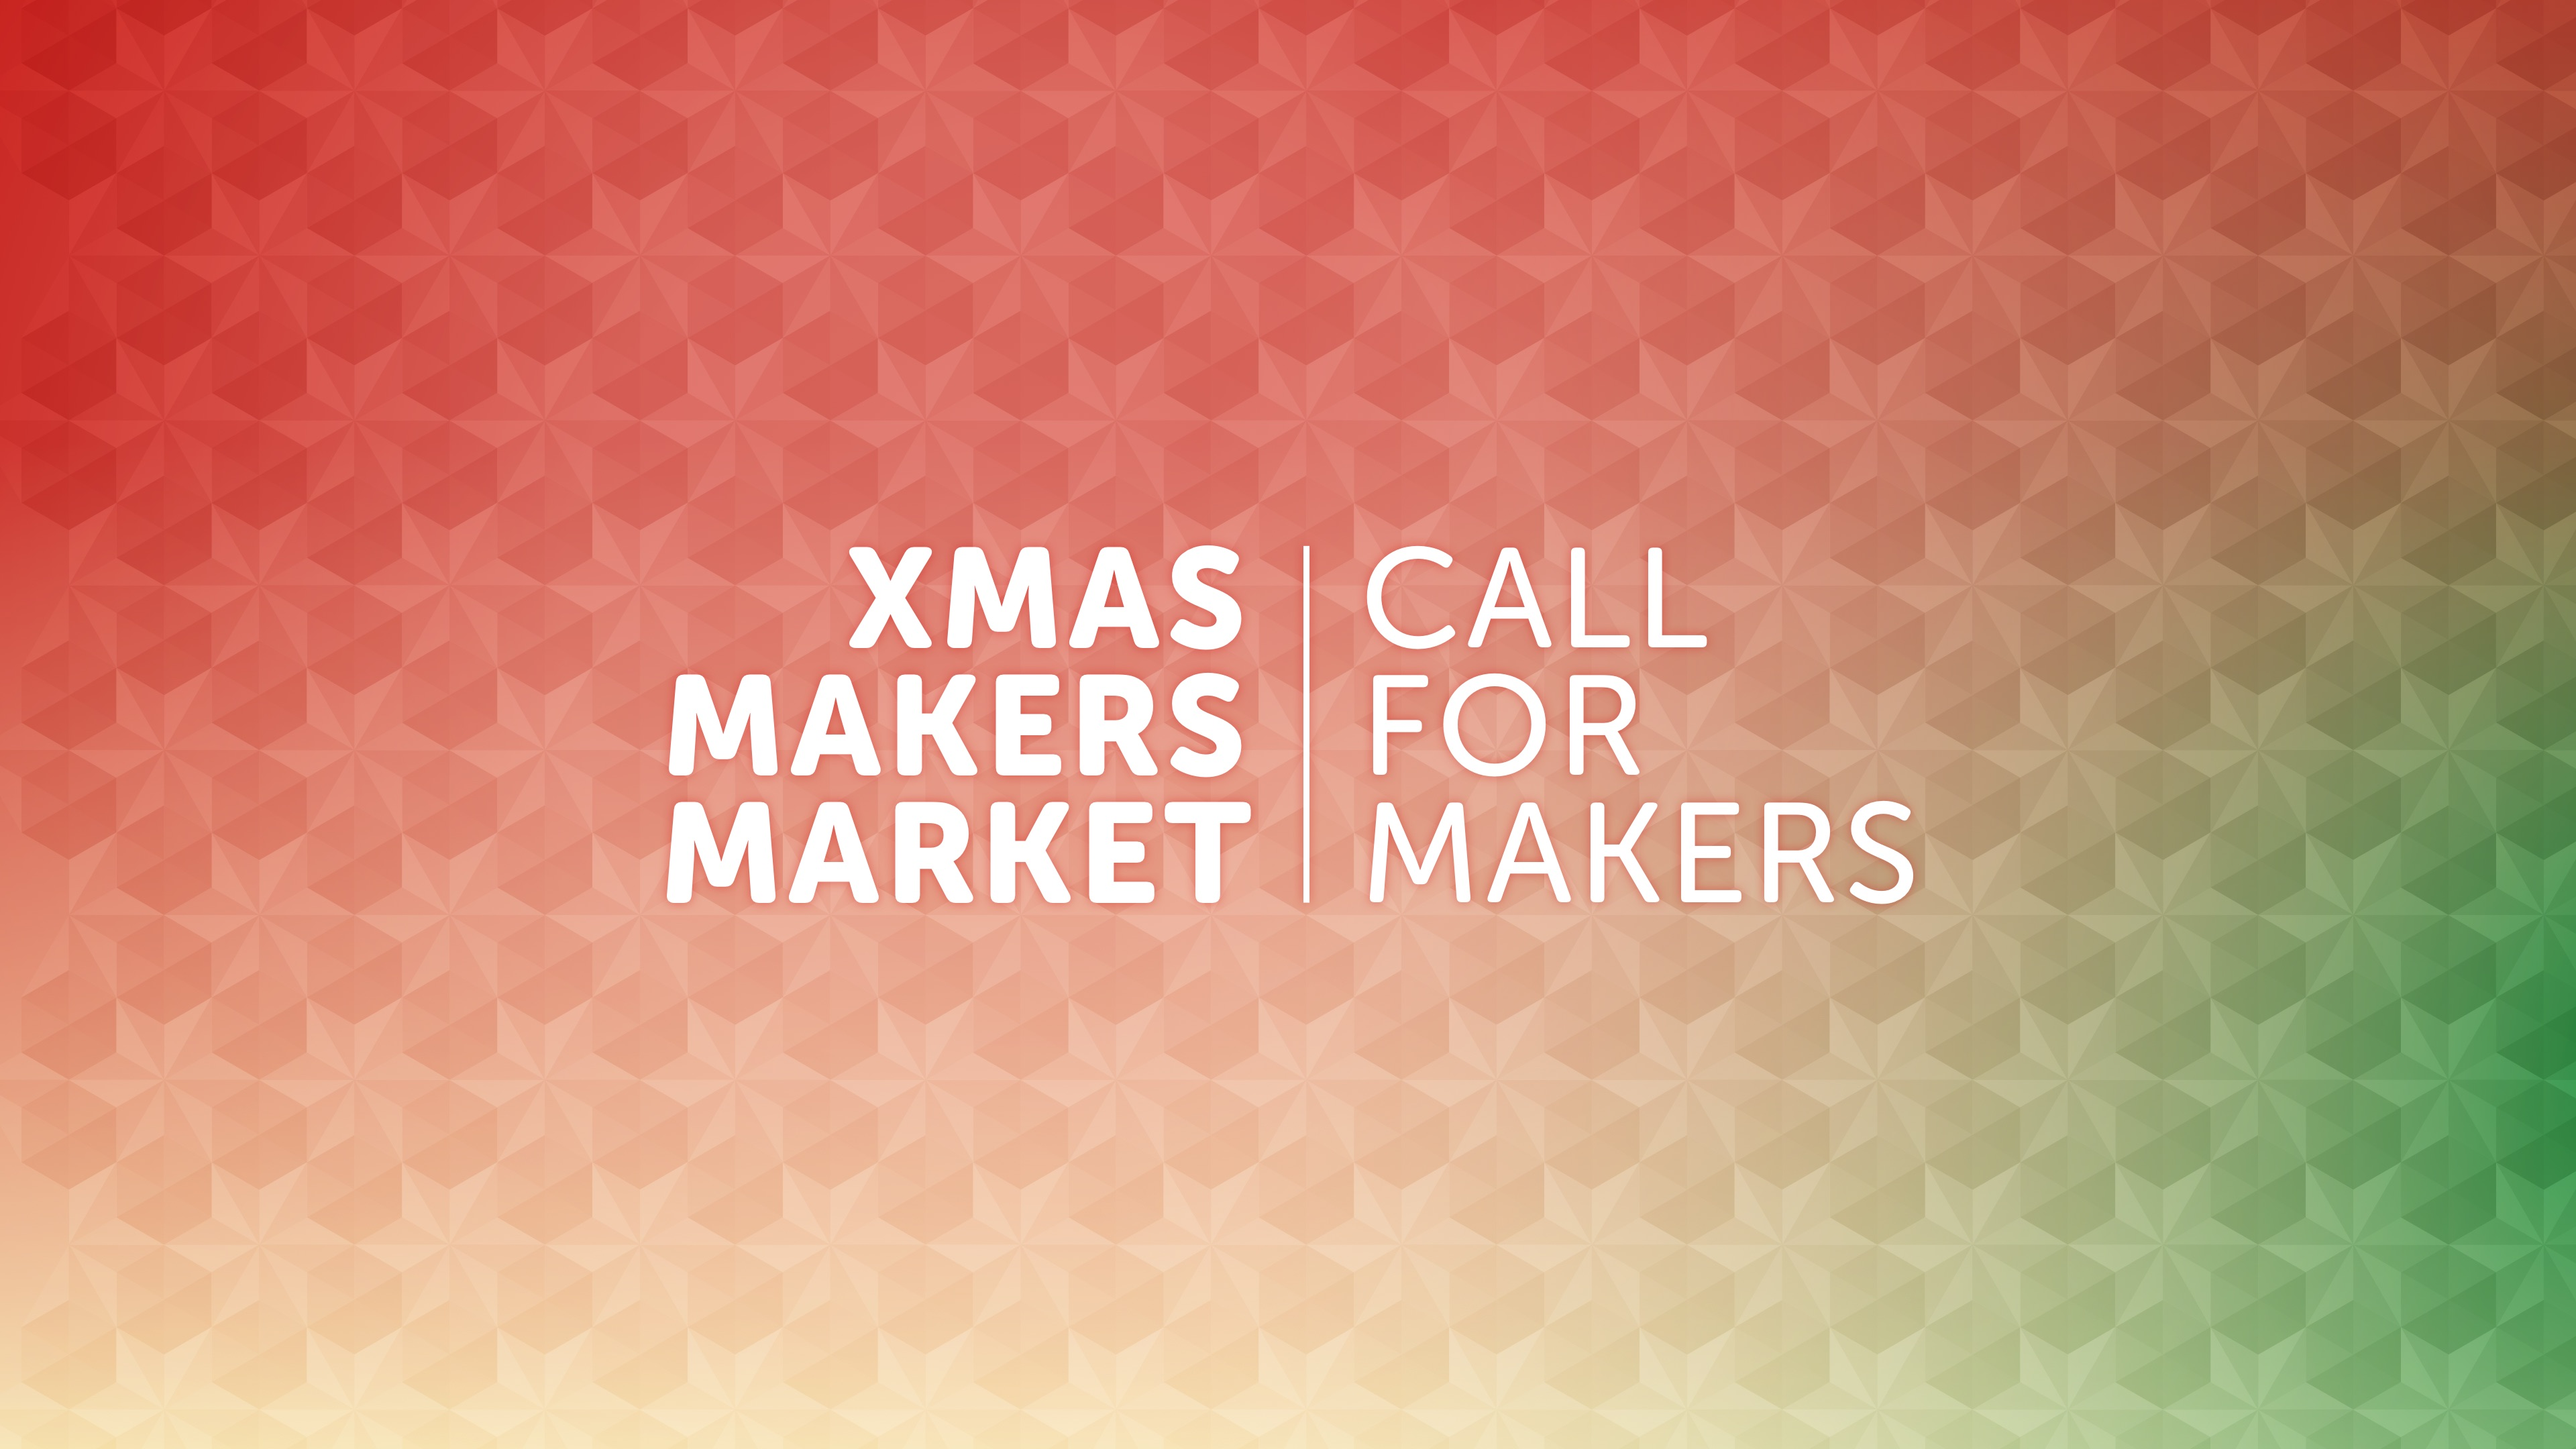
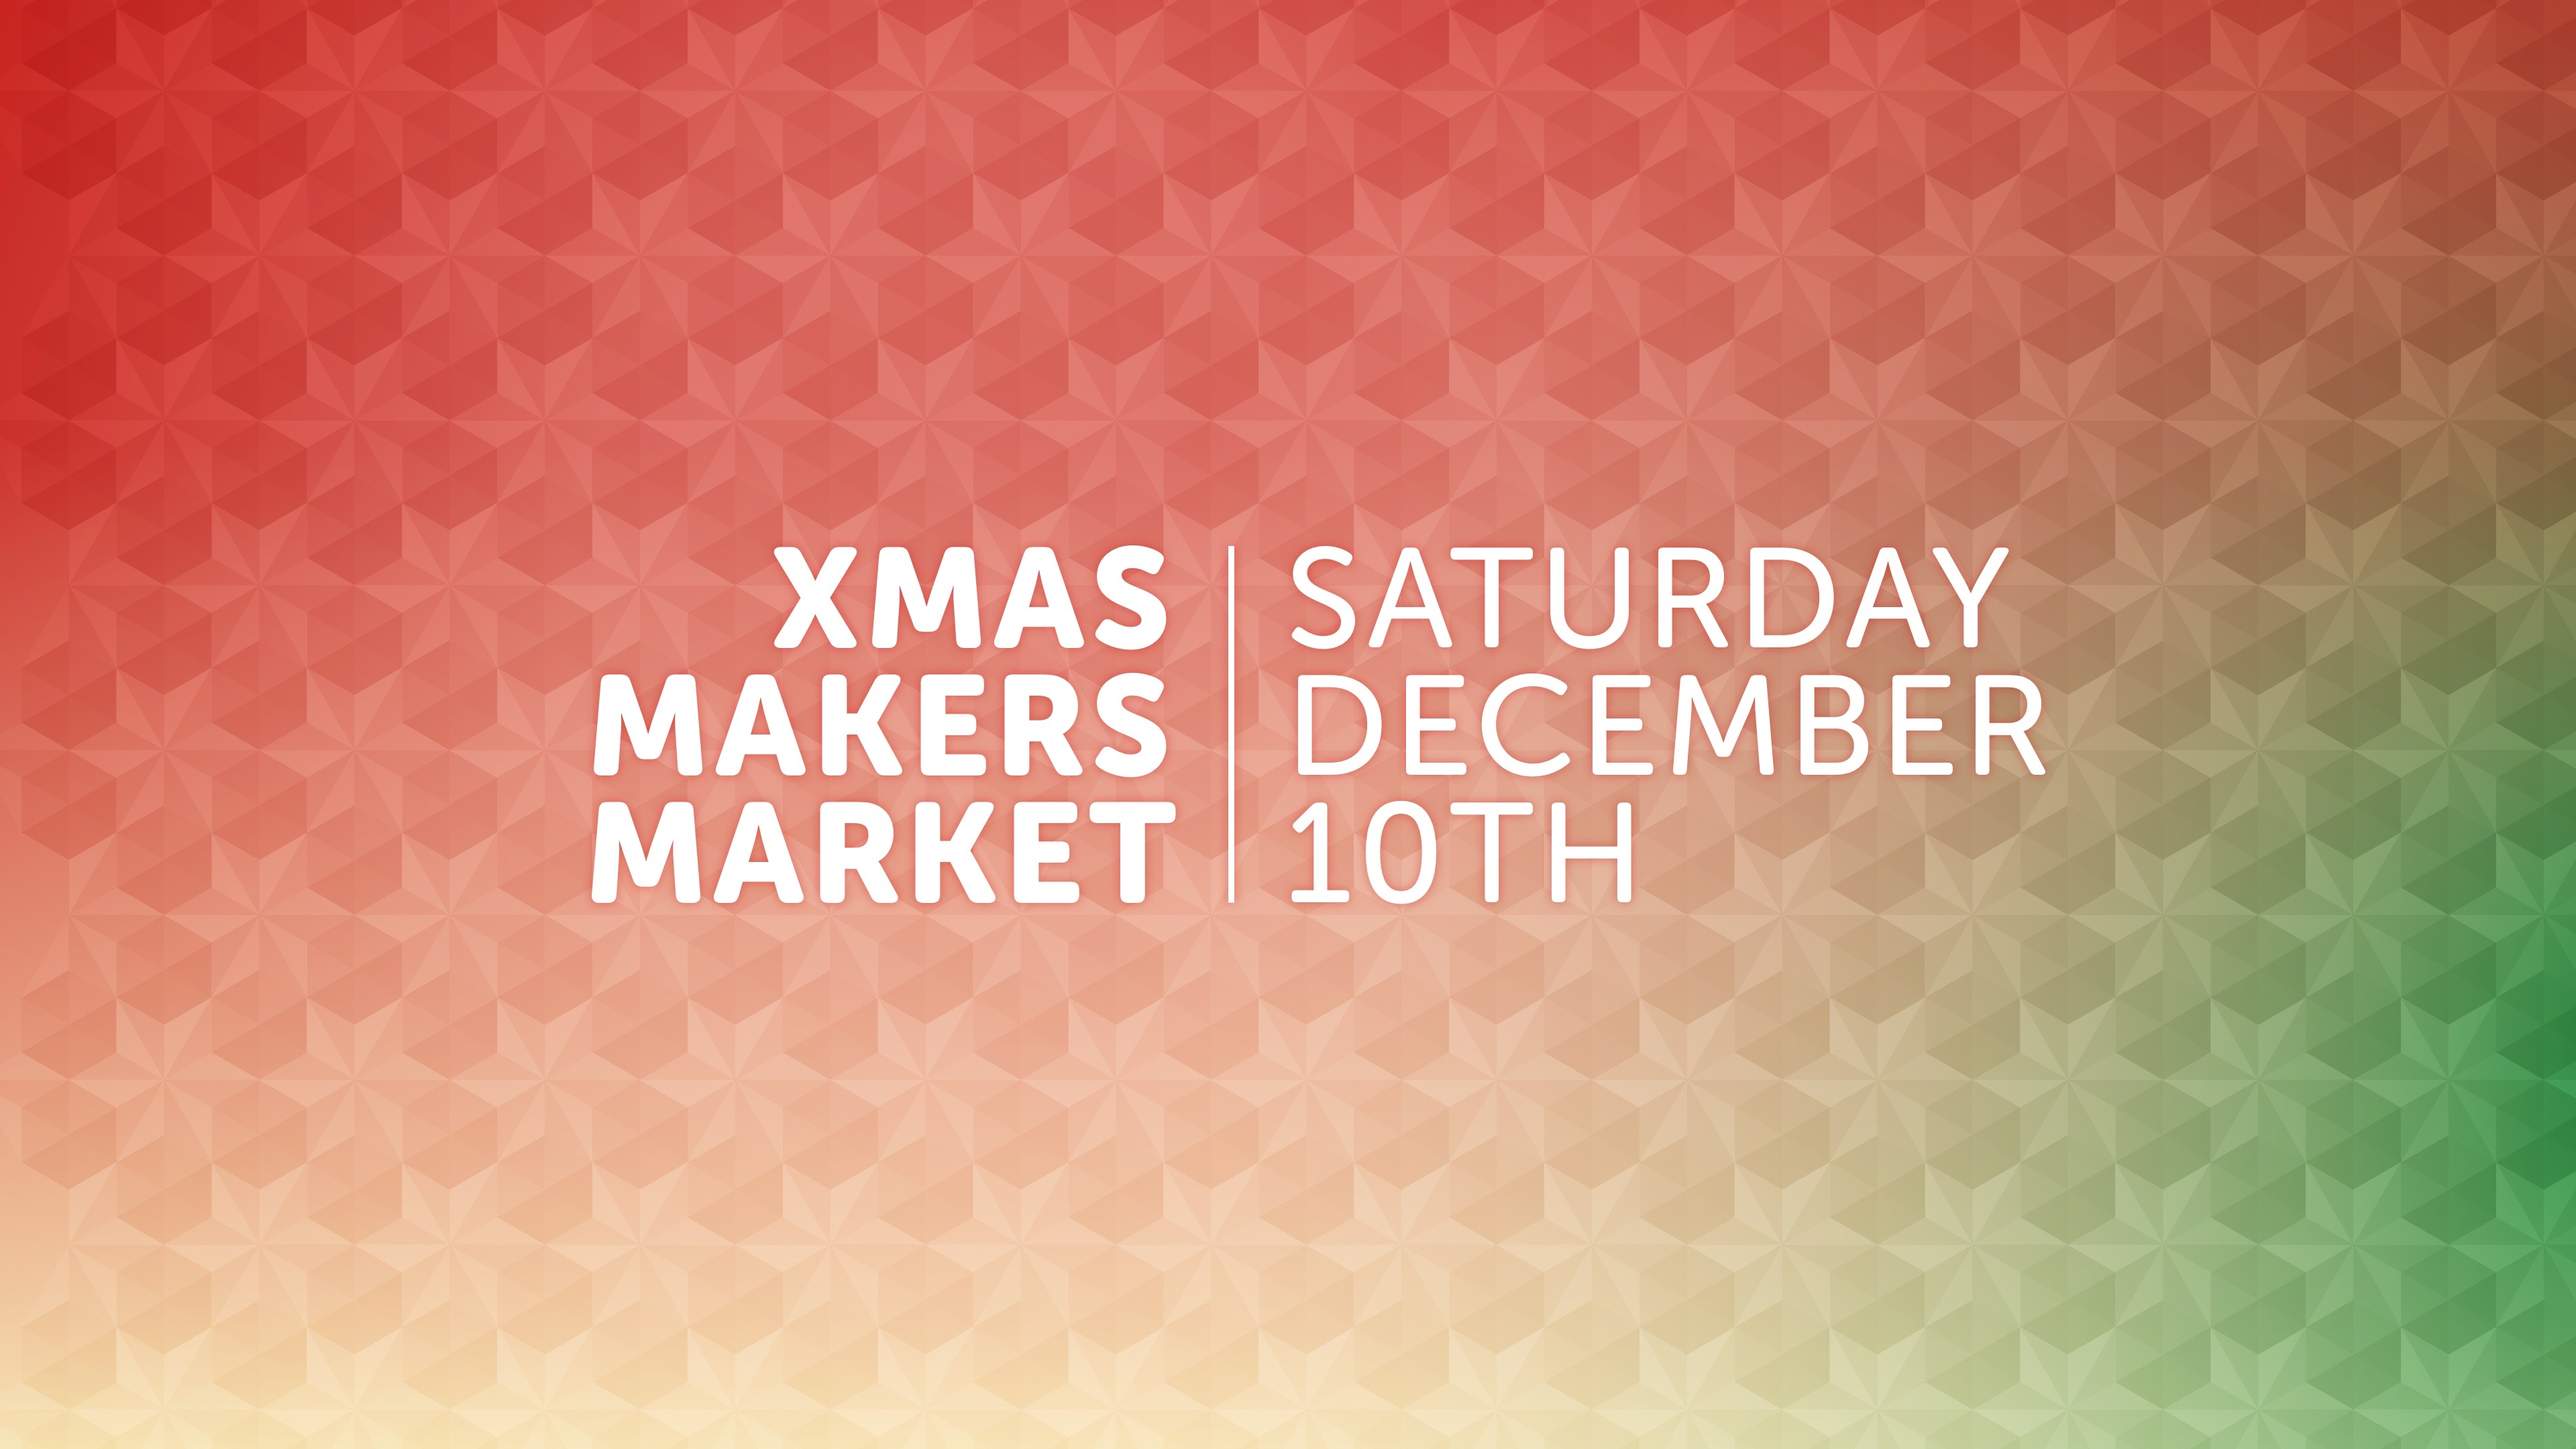
xmas market

Changed region(s): [[0.2188, 0.3722, 0.8125, 0.6204]]

diff --git a/_collection_events/2016-12-03-EVENT-xmasmakersmarket-16.md b/_collection_events/2016-12-03-EVENT-xmasmakersmarket-16.md
@@ -3,9 +3,9 @@ title: "Xmas Makers Market"
 layout: single-event
 category: events
 
-excerpt: "Calling all designers, makers and crafts people of Limerick, we are hosting a Xmas Makers Market and would love you to participate!"
+excerpt: "Fab Lab Limerick is delighted to announce its first Xmas Makers Market on Saturday December 10th. Illustrations, ceramics, jewelry, arts, crafts and much more made by local makers."
 hours: "Saturday 10th December, 10AM - 4PM"
-description: "Calling all designers, makers and crafts people of Limerick, we are hosting a Xmas Makers Market and would love you to participate!"
+description: "Fab Lab Limerick is delighted to announce its first Xmas Makers Market on Saturday December 10th. Illustrations, ceramics, jewelry, arts, crafts and much more made by local makers."
 fee:
 slug: xmasmakersmarket-16
 past: false
@@ -21,4 +21,21 @@ imagebackground: yes
 
 ---
 
-Calling all designers, makers and crafts people of Limerick, we are hosting a Xmas Makers Market and would love you to participate! We are offering our space on Rutland street for makers to display and sell their goods to the public on Saturday 10th December. There is a flat fee of €20 to take part. Spaces are limited so please [apply here](https://fablablimerick.typeform.com/to/MZ2xy2) if interested. Call open until Thursday 2nd December.
+Participants:
+- Sarah Bolger, illustrator
+- Audrey Doran, crochet
+- Marie Mc, hat designer
+- Monika Kolakowska, ceramist
+- Ger Walsh, designer
+- Aoife Daly, ceramist
+- Helena Grimes, artist
+- Martina Rosenthal
+- Liz Madden, painter
+- Trina Casey, sewing based maker
+- Lucia Mullerova, designer
+- Laura Murphy, jeweller
+- Robyn Long, illustrator
+- Mary Conroy, ceramist
+- Karen Cuneen, crafts
+- Shan Vaughan, poet and hand made books
+- Michael Mc Laughlin, woodworker

diff --git a/_collection_homebanner/2010-01-18-HOMEBANNER-xmasmakersmarket-16.md b/_collection_homebanner/2010-01-18-HOMEBANNER-xmasmakersmarket-16.md
@@ -6,7 +6,7 @@ slug: xmasmakersmarket-16
 video: false
 caption:
   display: true
-  description: "Xmas Makers Market · Call Open!"
+  description: "Xmas Makers Market"
 motto:
   display: false
 responsive: false
